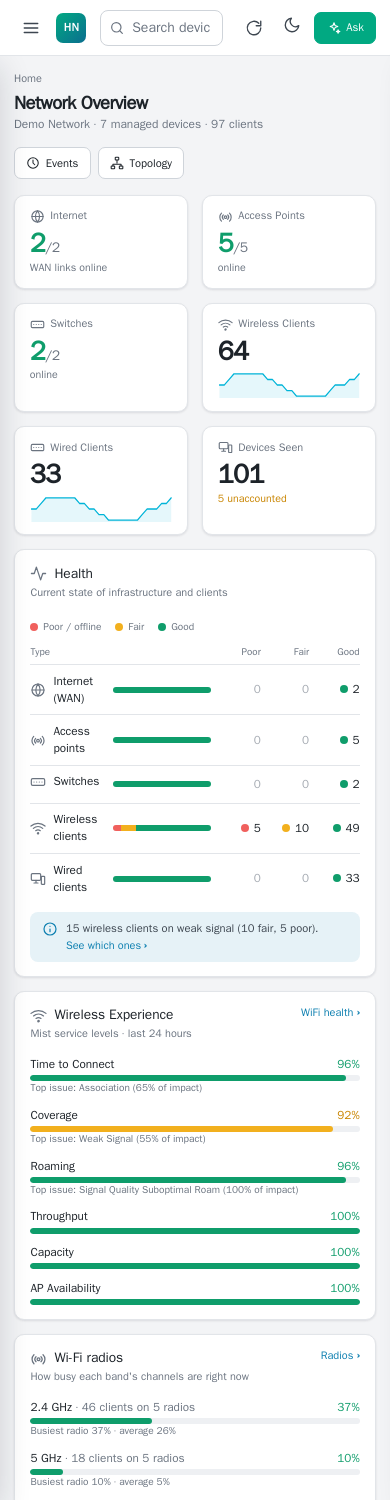
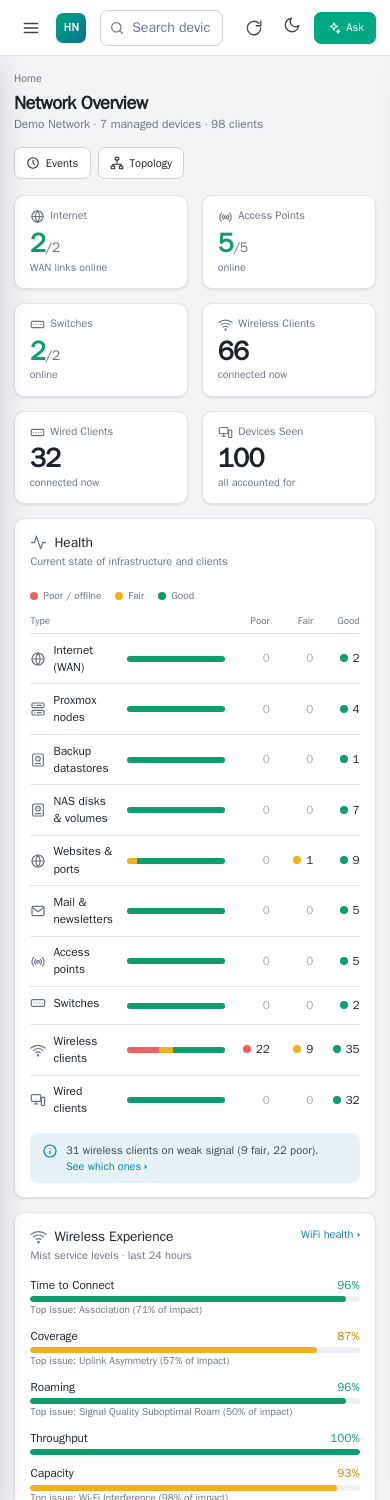
Docs: Synology with a non-admin account; screenshots of the new pages
- integrations.md / security.md: set up the Synology account as a regular
  user with the DSM application and the System monitoring delegated role;
  what an administrator account adds.
- README: page table updated; new screenshots of Proxmox, the Backup server
  card, NAS and Services, and refreshed Overview (light, dark, phone), all
  rendered from anonymised demo data and checked for original names.

diff --git a/docs/integrations.md b/docs/integrations.md
@@ -149,28 +149,43 @@ anything. Set `pbs.url` to `https://<backup server>:8007`.
 
 ## Synology NAS (optional)
 
-What it provides, on the **NAS** page: each disk's status, SMART result,
-temperature, bad sectors and SSD life; storage pools (RAID state, rebuilds
-and scrubbing) and volumes (state and space); CPU, memory, system
-temperature, waiting DSM updates and the UPS, plus Events for each change.
+What it provides, on the **NAS** page: each disk's health and temperature,
+volumes (state and space), CPU, memory and system temperature, plus Events
+when a disk or volume leaves the normal state, a volume fills up or a disk
+runs hot. An administrator account also shows storage pools (RAID type,
+rebuilds, scrubbing), the SMART result, bad sectors, SSD life, waiting DSM
+updates and the UPS.
 
-DSM has no read-only API role: reading Storage Manager needs an account in
-the **administrators** group. Create one just for the dashboard (*Control
-Panel → User & Group → Create*): a long random password, member of
-`administrators`, no shared-folder or application access you do not need.
-2-step verification must be off for this account, since the dashboard
-signs in unattended (if DSM enforces 2-step verification for
-administrators, exempt this account). Save the sign-in in
-`secrets/synology_credentials.txt`, or enter it under **Admin → Credentials**:
+Create an account just for the dashboard (*Control Panel → User & Group →
+Create*), with a long random password:
+
+1. Groups: leave it in `users` only.
+2. Shared folders: **No access** to all of them.
+3. Applications: **Allow** for **DSM** only, deny everything else. DSM
+   refuses the sign-in ("permission denied") without it.
+4. Leave 2-step verification off for this account: the dashboard signs in
+   unattended. If DSM enforces 2-step verification, exempt this account.
+5. Select the user, then *Delegate → Delegated Administration* and tick
+   only **System monitoring** (view Info Center and Resource Monitor). This
+   lets the account read disk and volume health without being an
+   administrator.
+
+Save the sign-in in `secrets/synology_credentials.txt`, or enter it under
+**Admin → Credentials**, whose test reports what the account can see:
 
 ```
 username=netdash
 password=<password>
 ```
 
+DSM has no read-only role for Storage Manager, so the dashboard reads
+Info Center's storage view instead and says so on the page. If you want the
+pool, SMART and update details as well, add the account to the
+`administrators` group; that is a full administrator, so weigh it against
+having that password on the dashboard's machine.
+
 Set `synology.url` to `https://<nas>:5001`. Requests are POSTs, so the
-password never appears in a URL or a web server log. A regular user can
-sign in too, but then the Disks and Volumes sections show "not permitted".
+password never appears in a URL or a web server log.
 
 ## Services: websites and ports (optional)
 

diff --git a/README.md b/README.md
@@ -19,10 +19,10 @@ you don't use are hidden.
 | Overview | Health of internet, APs, switches and clients; Wi-Fi service levels; busiest radios; worst links; WAN latency and traffic; client issues; recent events |
 | Events | Changes the dashboard noticed (WAN up/down, APs, switches, firewall services, firmware updates, new devices, Wi-Fi failures), filterable and paged |
 | Proxmox | Cluster quorum and nodes (restarts, including HA fencing), HA, every VM/container with replication and newest backup, storage, backup jobs and failed tasks |
-| Proxmox Backup Server | Datastore space and the date it fills up, backups that failed verification, retention (prune jobs), garbage collection, verify/prune/sync jobs, failed tasks |
-| Synology NAS | Disks (status, SMART, temperature, SSD life), storage pools and RAID state, volumes, DSM updates, UPS |
-| Services | Websites and ports: up/down, response time, 24-hour uptime, certificate expiry |
-| Mail | Stalwart health; Listmonk campaigns, bounces, and newsletter lists that stopped getting sends |
+| Proxmox: Backup server | Datastore space and the date it fills up, backups that failed verification, retention (prune jobs), garbage collection, verify/prune/sync jobs, failed tasks |
+| NAS | Synology disks (health, temperature) and volumes with a read-only account; with an admin account also SMART, SSD life, storage pools and RAID state, DSM updates and UPS |
+| Services | Websites and ports (HTTP, TCP, TLS and SMTP STARTTLS): up/down, response time, 24-hour uptime, certificate expiry |
+| Services: Mail | Stalwart health; Listmonk campaigns, bounces, and newsletter lists that stopped getting sends |
 | Firewall | OPNsense health (CPU, memory, disk, connections), firmware status, services, blocked traffic from the firewall log, and the busiest devices right now |
 | Wireless Clients | Every Wi-Fi client with signal, retry rate, link rate, Wi-Fi generation and AP |
 | WiFi Health | Signal quality, load per AP, channel utilisation, worst links, client mix |
@@ -51,6 +51,18 @@ you don't use are hidden.
 
 **Topology**
 ![Topology](docs/img/topology.png)
+
+**Proxmox:** nodes, HA, guests with replication and their newest backup
+![Proxmox](docs/img/proxmox.png)
+
+**Backup server:** datastore space and when it fills up, verification, retention and jobs
+![Backup server](docs/img/backup-server.png)
+
+**NAS:** disks, volumes and the storage pool
+![NAS](docs/img/nas.png)
+
+**Services:** websites, mail ports, certificates and newsletter sends
+![Services](docs/img/services.png)
 
 **Dark mode and phone view**
 

diff --git a/docs/security.md b/docs/security.md
@@ -47,10 +47,10 @@ with TLS), or only from a network you trust.
   a Central token for monitoring, Proxmox VE `PVEAuditor` and Backup Server
   `Audit` tokens, and a Listmonk API user with only the three read
   permissions.
-- The Synology account is the exception: DSM has no read-only role that can
-  see Storage Manager, so it is an administrator. Give it a long random
-  password used nowhere else, and treat its credential file like a root
-  password. Leave Synology off if you are not comfortable with that.
+- For Synology, use a regular user with only the DSM application and the
+  **System monitoring** delegated role (see [integrations.md](integrations.md#synology-nas-optional)).
+  Making it an administrator adds detail but gives the dashboard's machine a
+  full DSM administrator password; only do that knowingly.
 - Replace any key that has been pasted into chat, email or a ticket.
 - The repository's pre-commit hook (`git config core.hooksPath .githooks`)
   blocks commits containing strings that look like secrets.
